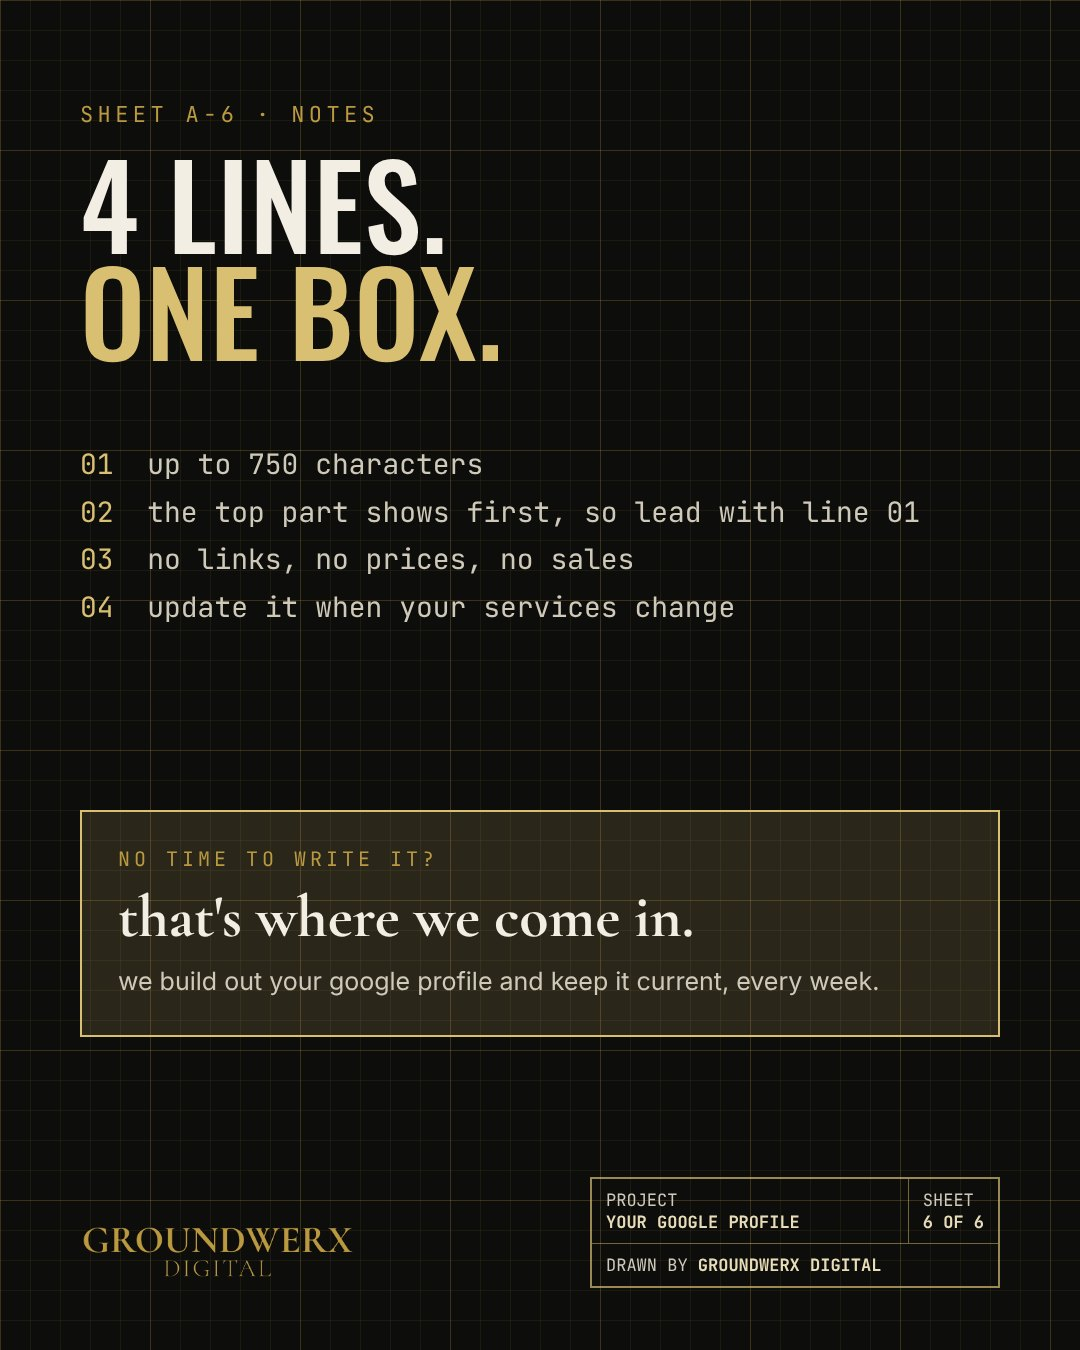
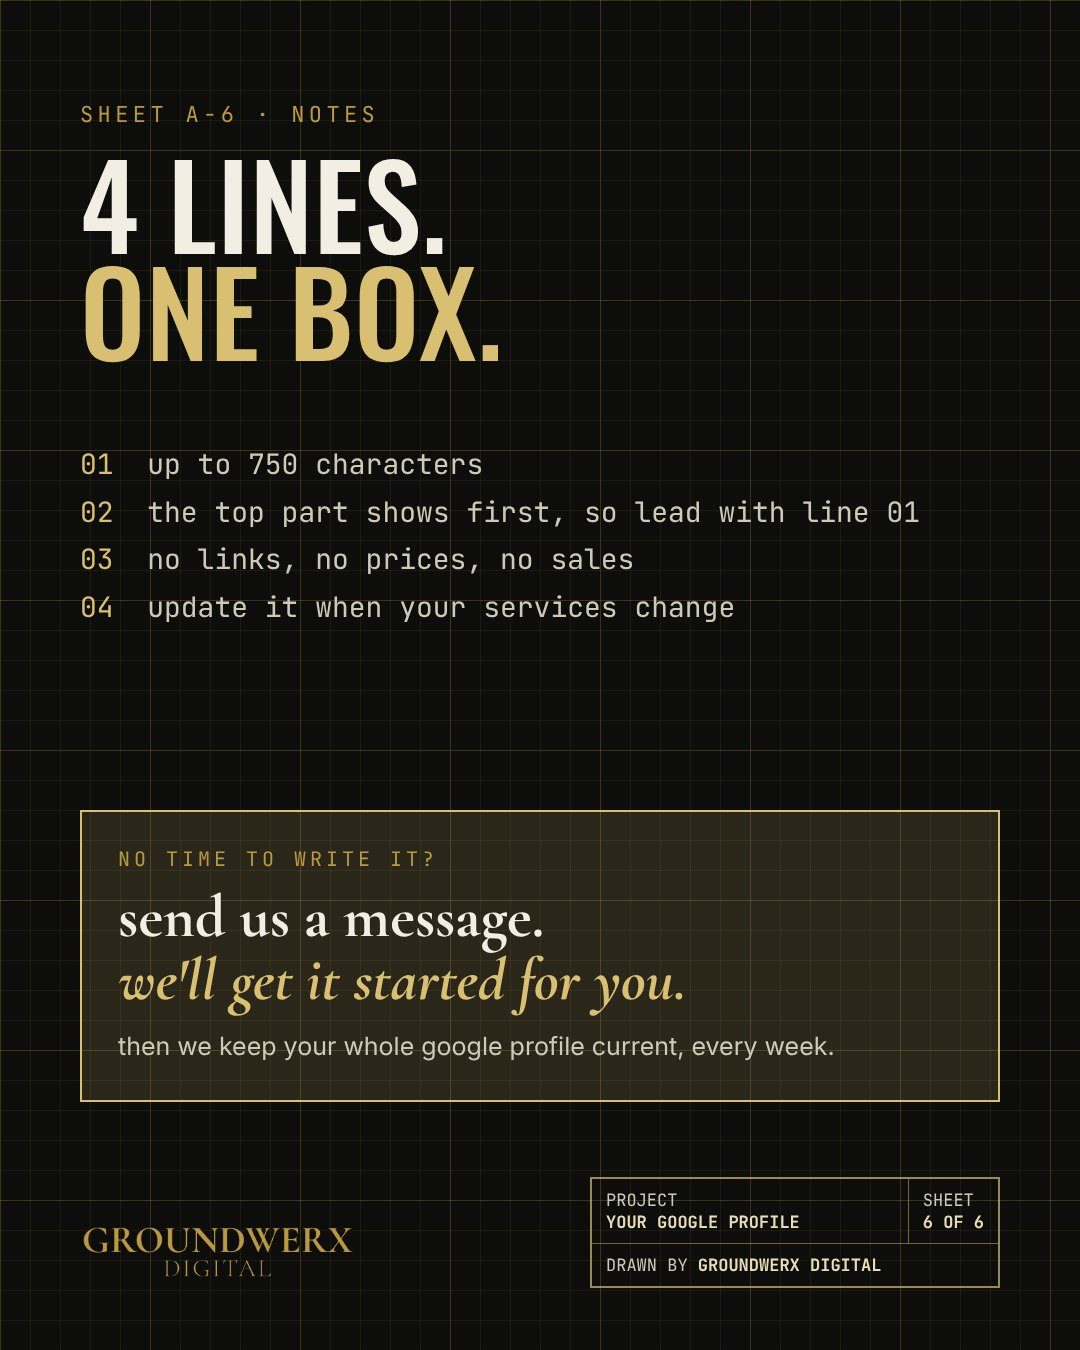
Slide 6 CTA: send us a message; capitalize Tyler and Cade; strategy: social CTAs and 2 GBP posts/week
Claude-Session: https://claude.ai/code/session_01TmSJiMSFAUsuokfYSNTvC8

Changed region(s): [[0.0611, 0.6533, 0.9472, 0.84]]

diff --git a/templates/week6_build.py b/templates/week6_build.py
@@ -97,8 +97,8 @@ POSTS["p2_blueprint_6.jpg"] = page(GRID + f"""
 <span style="color:var(--gold2)">04</span>&nbsp; update it when your services change</div>
 <div style="position:absolute;left:80px;right:80px;top:810px;border:2.5px solid #D9BF72;background:rgba(217,191,114,.14);padding:34px 36px">
 <div class=mo style="font-size:20px;color:var(--gold);letter-spacing:.2em">NO TIME TO WRITE IT?</div>
-<div style="font:700 60px/1.05 CG;color:var(--paper);margin-top:14px">that's where we come in.</div>
-<div style="font:400 25px/1.5 In;color:#CFC9BA;margin-top:14px">we build out your google profile and keep it current, every week.</div></div>
+<div style="font:700 60px/1.05 CG;color:var(--paper);margin-top:14px">send us a message.<br><i style="color:var(--gold2)">we'll get it started for you.</i></div>
+<div style="font:400 25px/1.5 In;color:#CFC9BA;margin-top:16px">then we keep your whole google profile current, every week.</div></div>
 {tblock(6)}""", "#0d0d0b", "dark")
 
 # ---------- Wed Nov 11 · Offers · look 9 TEAR-OFF FLYER: referral program ----------
@@ -134,7 +134,7 @@ POSTS["p5_split_brothers.jpg"] = page("""
 <div style="position:absolute;left:0;right:0;top:0;height:675px;background:#D9BF72"></div>
 <div style="position:absolute;left:80px;top:170px"><div class=os style="font-size:176px;color:#0B0B0B;line-height:.88">no account<br>managers.</div></div>
 <div style="position:absolute;left:80px;top:765px"><div class=os style="font-size:176px;color:#D9BF72;line-height:.88">just two<br>brothers.</div>
-<div style="font:500 27px In;color:#CFC9BA;margin-top:44px;letter-spacing:.04em">tyler and cade &middot; every account, start to finish</div></div>
+<div style="font:500 27px In;color:#CFC9BA;margin-top:44px;letter-spacing:.04em">Tyler and Cade &middot; every account, start to finish</div></div>
 <div style="position:absolute;right:80px;top:84px;font:600 22px In;letter-spacing:.3em;color:#0B0B0B">WHO YOU WORK WITH</div>""",
 "#0B0B0B", "dark")
 

diff --git a/strategy.md b/strategy.md
@@ -55,7 +55,7 @@ Tyler's Claude and Cade's Claude both follow it. Change the strategy here, not i
 - 5 posts/week, weekdays only (no weekends). Metricool free plan = 20 posts/month.
 - Stagger times between 10am and 5pm Central. Metricool's data shows weekday peaks around 10am, noon and 5pm.
 - Facebook Page now. Instagram and Google Business Profile when connected.
-- GBP gets a text update version of the week's best post.
+- GBP gets **2 text posts per week** drawn from that week's social posts. See "Google Business Profile posts" below.
 
 ## Design rules
 - Black (#0B0B0B), gold (#BA9941 / light #D9BF72), cream (#F2EEE4).
@@ -98,6 +98,7 @@ The old posts all looked the same: thin border, small label, lowercase serif hea
 - "Example" labels go only on specific made-up numbers, businesses or math. Don't stamp "example profile" on generic descriptions (Oct 28: removed from the caution-tape post).
 - Checklists and tips should leave room for GroundWerx. Show the reader mostly done with one item left, and close with "that's where we come in" or a similar line, never "fix it this week" DIY homework that suggests they don't need us.
 - Every visual metaphor should make sense at a glance. A receipt, work order or flyer should hold content that belongs on that object.
+- **Calls to action (Tyler, Nov 4): make the next step easy to do right there on social.** Lead with a message or comment action, e.g. "send us a message and we'll get it started for you" or "comment X and we'll send it over". The phone number and website can follow, but never as the only CTA. Graphics that end with a CTA use the message/comment line, not just "that's where we come in". Still no promises of rankings, results or timelines.
 - Before scheduling, look at every render at full size and as a 360px thumbnail. Check for clipped headlines, text hidden behind devices, labels touching the logo, and devices covering the logo.
 
 ## Google review posts (Tyler, Oct 29)
@@ -129,6 +130,17 @@ Share our real Google reviews on Facebook (and Instagram when connected) as a gr
 - Bottom row: our wordmark bottom-left as always. Bottom-right, a white pill badge with the official Google G, a divider, the big rating number (Oswald, e.g. "5.0"), then "on Google" with the "as of" date underneath. Graphic first, few words, no stars in the badge. (Tyler, Oct 29: he dropped the "shared with permission" line. Consent is still required, it just isn't printed.)
 - Gold label at the top ("from our google reviews") and a short serif headline drawn from the review.
 - The script refuses to render if the card overlaps the Google line. If it does, shorten the excerpt (with …), don't shrink the type further.
+
+## Google Business Profile posts (Tyler, Nov 4)
+- **2 per week**, each a rewrite of one of that week's Facebook/Instagram posts. Pick the two that suit someone looking at our profile on Google (tips about Google profiles, websites, how we work). Never a review post, never a founder post.
+- Metricool type **"publication"** (text update), scheduled on the same day as its social post, 15-30 minutes after it.
+- **Different rules from social (Google's post policy):**
+  - No phone numbers, links, URLs or email addresses in the text. Google rejects posts with phone numbers, and the profile already shows our call and website buttons.
+  - No hashtags, no emojis, no "swipe", "link in bio", "comment below" or "DM us". Google profiles have no comments, and Google's chat feature was shut down in 2024. The post must stand on its own with no image.
+  - CTA points to the profile's own buttons: "tap Call on our profile for a free 15-minute consultation" or "tap Website to see what we do".
+  - About 80-200 words, max 1,500 characters. No prices or promotions with prices. No example math unless clearly labeled.
+  - Stay on topic (our services). Same voice rules: plain, no promises of rankings, results or timelines.
+- Log GBP posts in the Status column of the social post they came from.
 
 ## Rules for Claude
 - Before planning: read this file and `calendar/log.md`, and check Metricool's scheduled posts.
